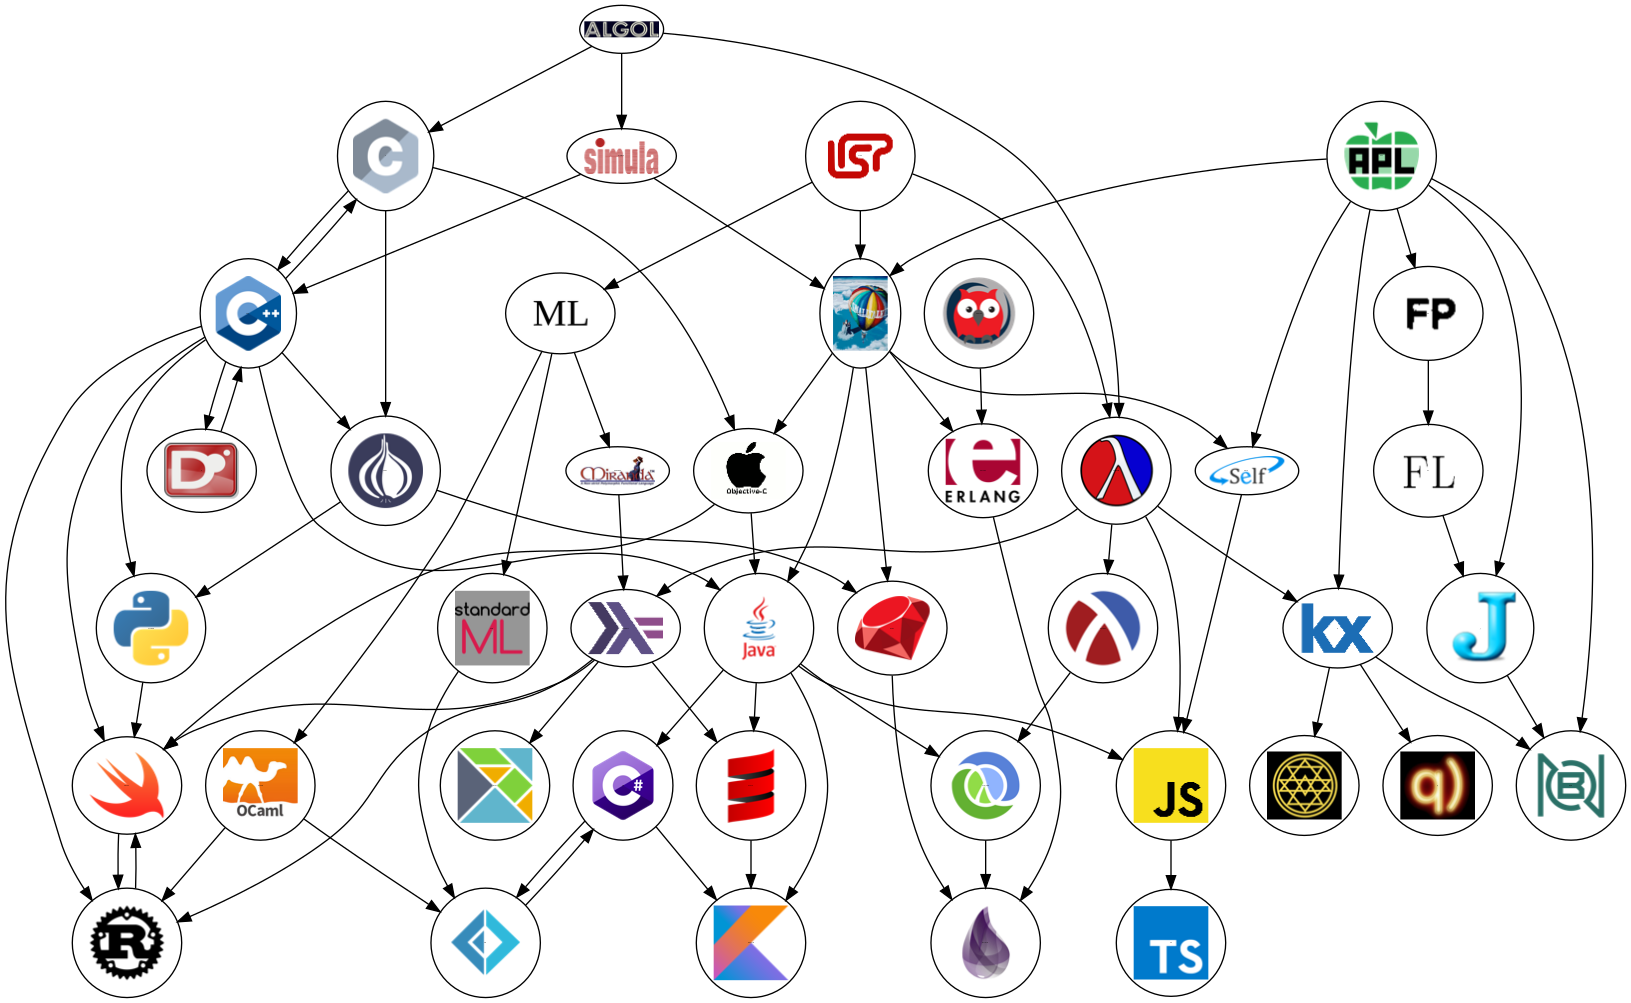
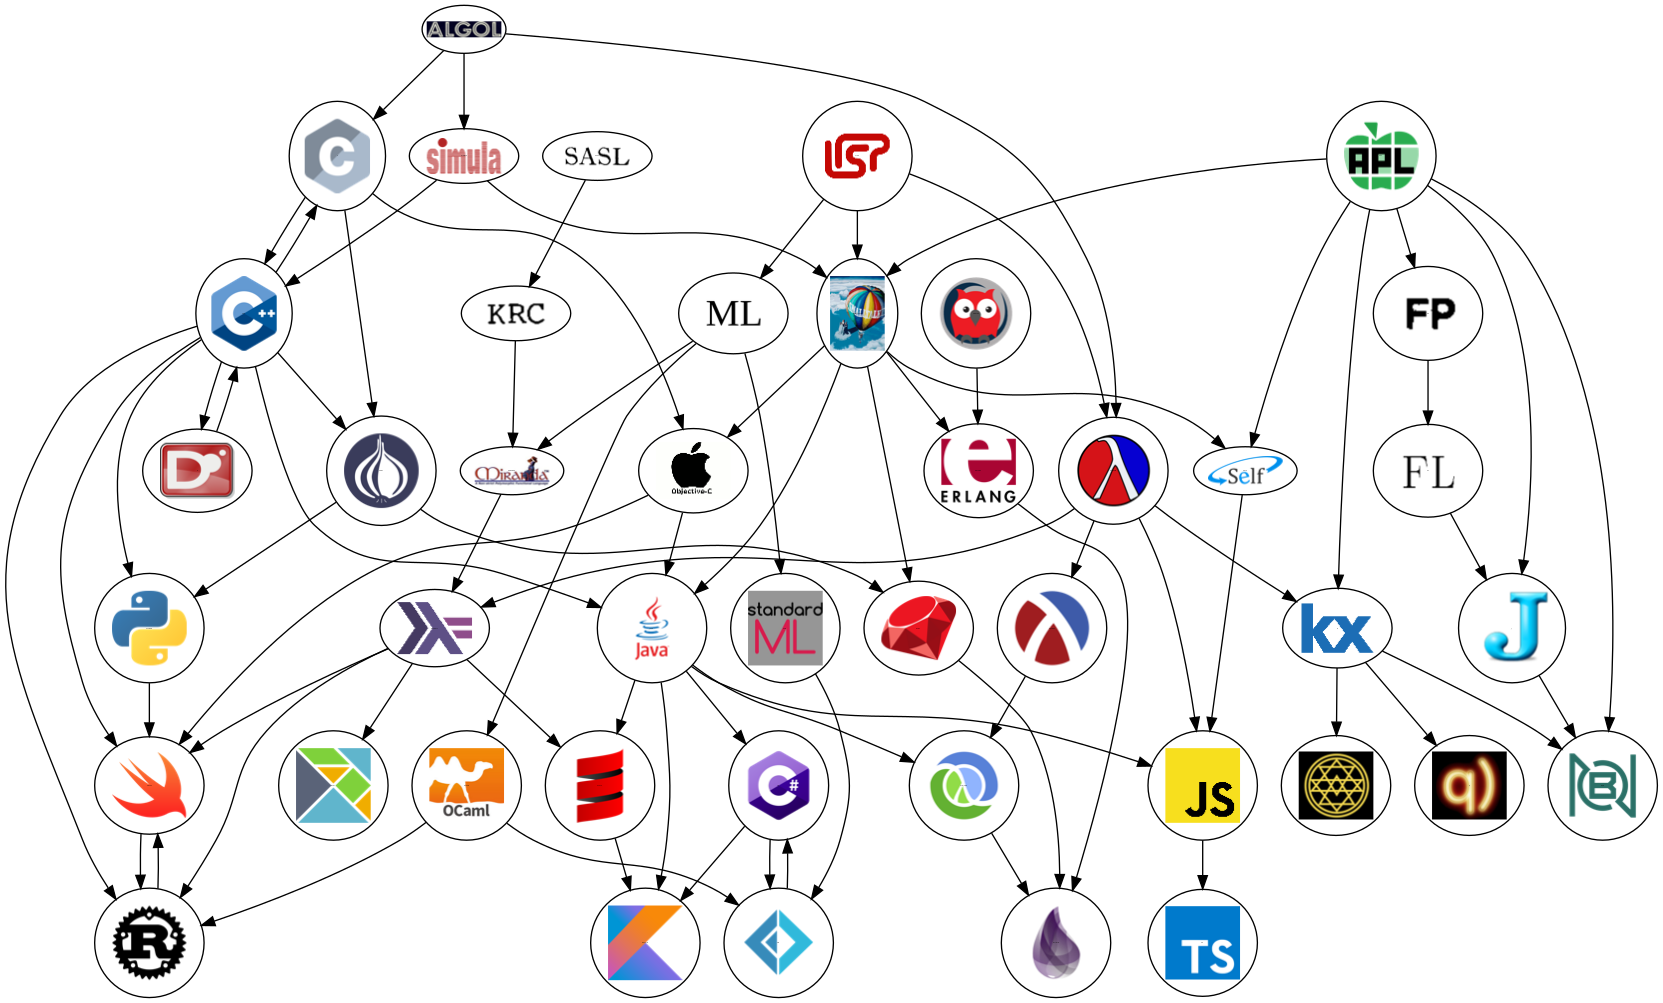
Add KRC, SASL

diff --git a/plgraph-graphviz.py b/plgraph-graphviz.py
@@ -22,6 +22,7 @@ logos = { 'ALGOL':     './logos/algol_logo.png',
           'JS':        './logos/javascript_logo.png',
           'JAVA':      './logos/java_logo.png',
           'K':         './logos/kx-logo.png',
+          'KRC':       './logos/krc_logo.png',
           'KOTLIN':    './logos/kotlin_logo.png',
           'LISP':      './logos/lisp_logo.png',
           'MIRANDA':   './logos/miranda_logo.jpg',
@@ -35,6 +36,7 @@ logos = { 'ALGOL':     './logos/algol_logo.png',
           'RACKET':    './logos/racket_logo.png',
           'RUBY':      './logos/ruby_logo.png',
           'RUST':      './logos/rust_logo.png',
+          'SASL':      './logos/sasl_logo.png',
           'SCALA':     './logos/scala_logo.png',
           'SCHEME':    './logos/scheme_logo.png',
           'SELF':      './logos/self_logo.png',
@@ -98,8 +100,9 @@ dependencies_light = {
                  'JAVA'     : ['SMALLTALK', 'CPP', 'OBJC'],                 # CLU ADA EIFFEL modula 3 oberon pascal
                  'JS'       : ['SELF', 'JAVA', 'SCHEME'],
                  'K'        : ['APL', 'SCHEME'],                            # scheme
+                 'KRC'      : ['SASL'],
                  'KOTLIN'   : ['C#', 'JAVA', 'SCALA'],                      # Eiffel groovy JS Python
-                 'MIRANDA'  : ['ML'],
+                 'MIRANDA'  : ['ML', 'KRC'],
                  'ML'       : ['LISP'],
                  'OBJC'     : ['SMALLTALK', 'C'],
                  'OCAML'    : ['ML'],
